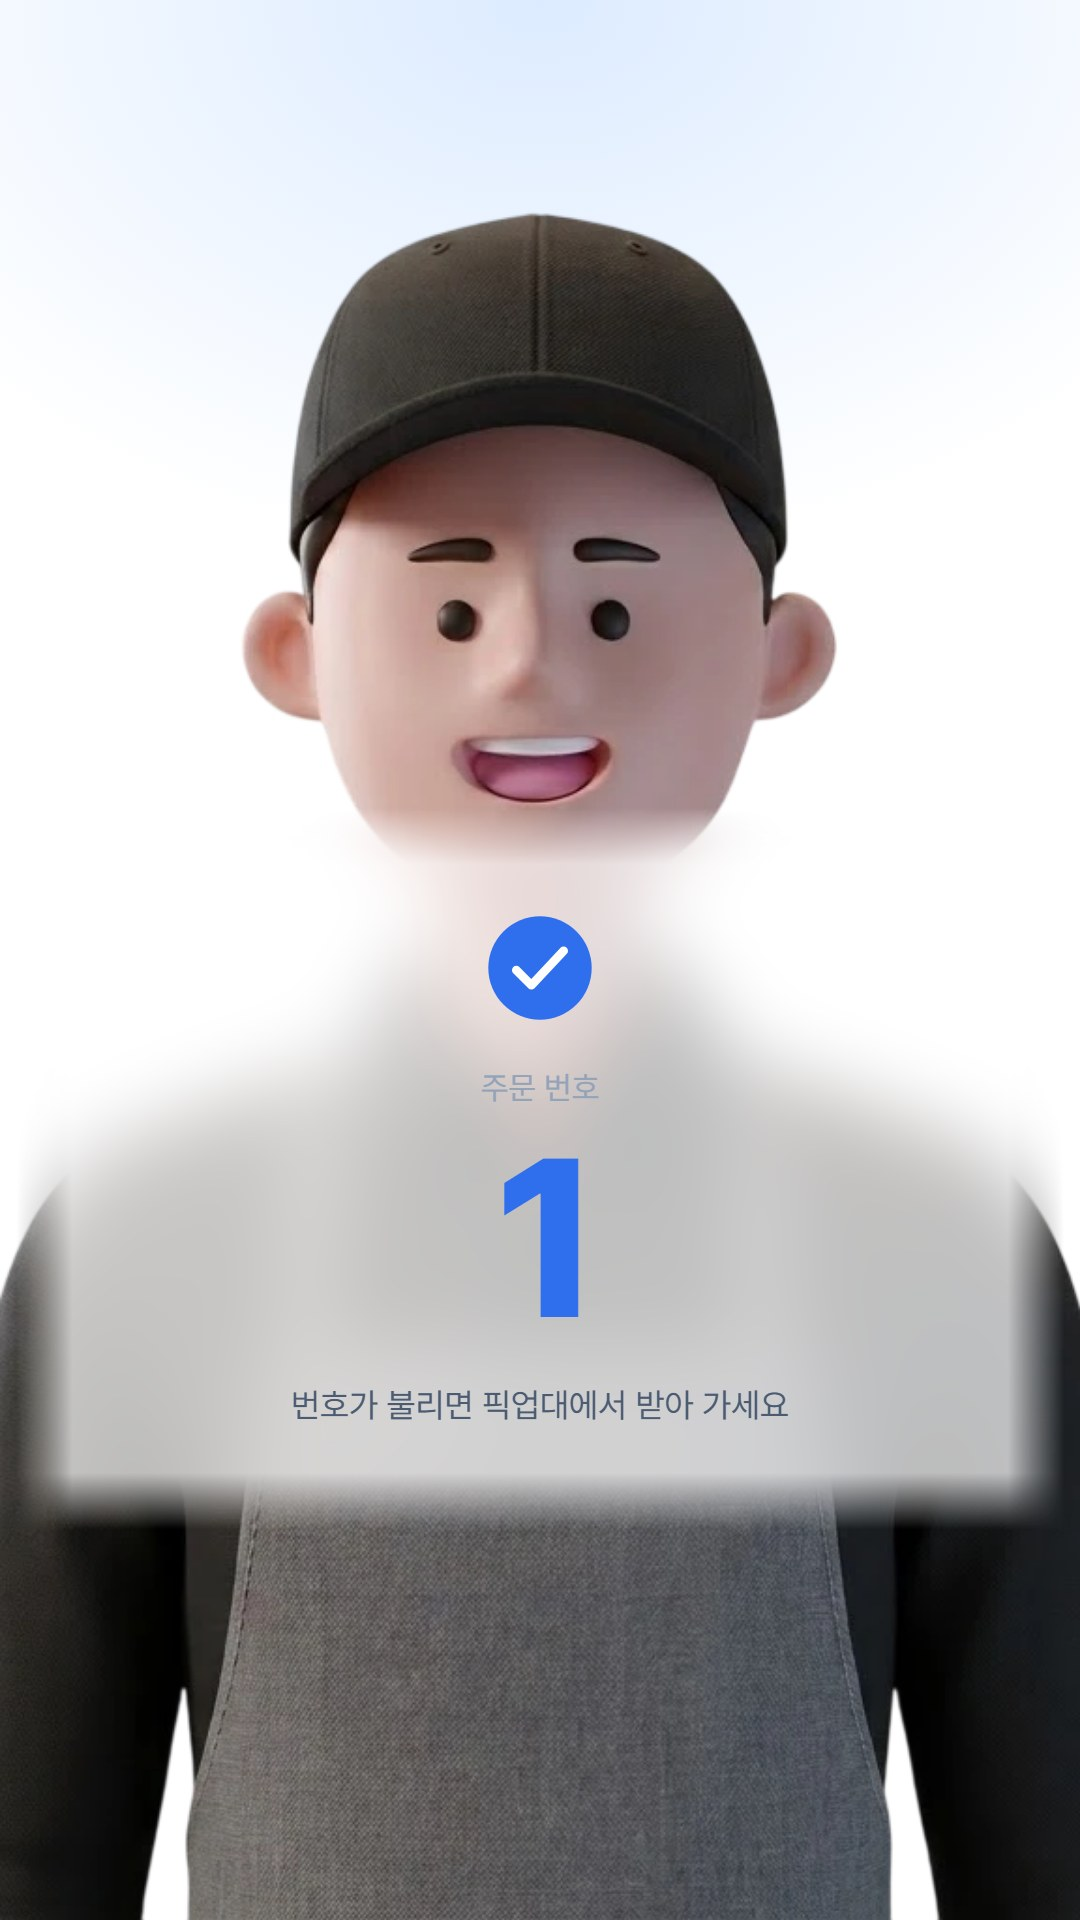
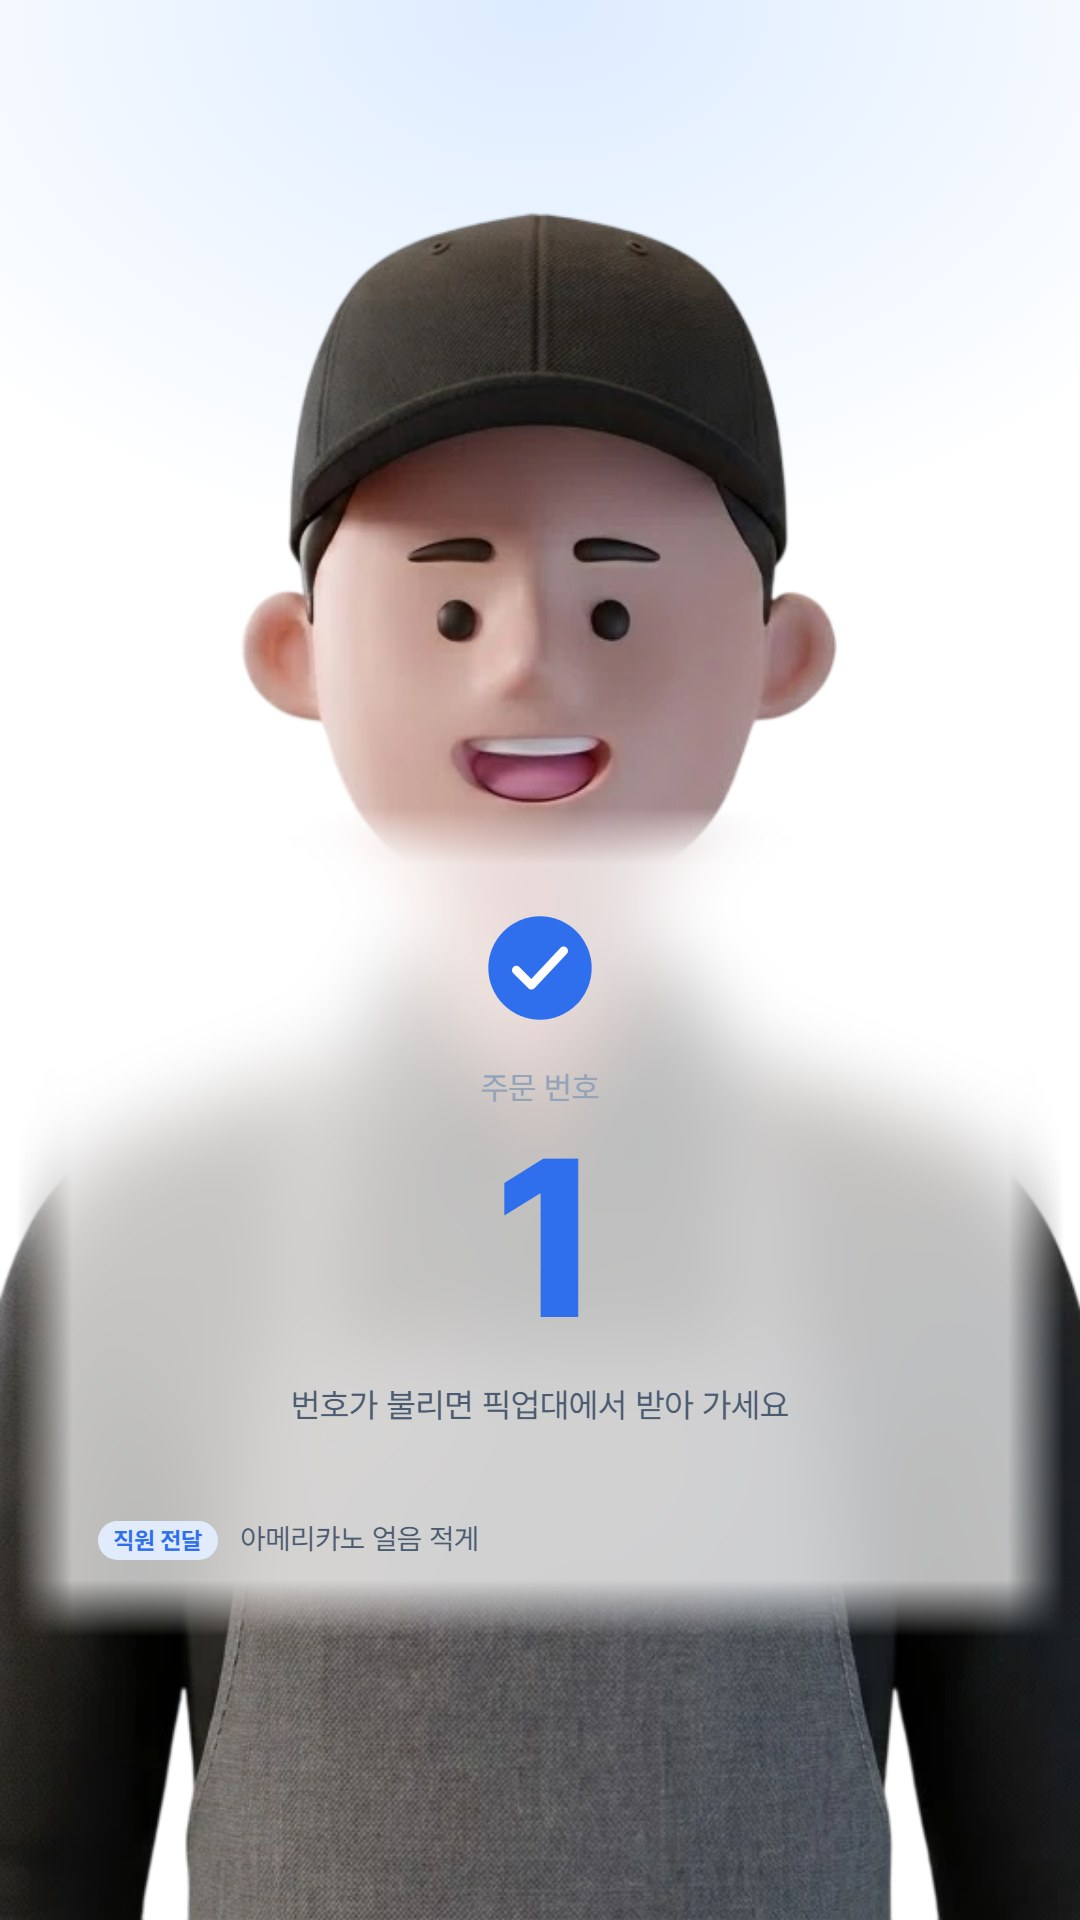
Document the ordering steps, going back and staff notes

Changed region(s): [[0.0, 0.75, 0.9778, 0.875]]

diff --git a/docs/architecture.md b/docs/architecture.md
@@ -108,12 +108,23 @@ changes the state (and increases `revision`) or raises `KioskError` with a messa
   until the card is "inserted".
 - The **review** is a screen, not a phase: `review()` stores the order's `version`, and
   `start_payment()` is refused if the order changed since (`review_is_current`).
-- An item is added as soon as every **required** option is known (`choose_item` /
-  `set_options`); otherwise it waits and the item screen shows the missing choices. Several
-  items can wait side by side ("청포도 에이드 하나랑 아메리카노 하나"); `set_options(item_id=...)`
-  says which one an answer is for, and the screen shows the one touched last. Optional groups keep
-  their default ("기본", "없음"). A temperature or size the item has no option for is accepted
-  only if it matches how the item is served (ICE for an iced-only item, Regular for one size).
+- A session starts with the **take-out question** on screen (`Screen.DINING`); `set_dining`
+  clears it. If dining is still unknown at payment, the question comes back.
+- An item is chosen **one question at a time**: each missing required option in the item's own
+  order, then its **extras** (shots, syrups, tumbler, ...) all at once, then `finish_item` adds it
+  (`PendingItem.asking` says which; the view's `group` shows it). Items without extras are added as
+  soon as the required options are known. Several items can wait side by side ("청포도 에이드
+  하나랑 아메리카노 하나"); `item_id` says which one an answer is for, and the screen shows the one
+  touched last. Optional groups keep their default ("기본", "없음"). A temperature or size the
+  item has no option for is accepted only if it matches how the item is served (ICE for an
+  iced-only item, Regular for one size).
+- **Going back**: the views the customer saw (menus, kinds of menu, items, info, the order) are
+  remembered; `go_back` shows the previous one. The option steps of one item count as one view,
+  and an item that was added since comes back as its order line. `edit_line(line, group?)` shows
+  an order line's options again (one group's choices, or all at a glance), and `change_line`
+  shows the option it changed, with the new choice marked.
+- **Notes for the staff** (`add_note`) are kept with the order; `ask_staff_question` makes the
+  assistant ask once, before the first review, whether there is anything for the staff.
 - `show_menu(exclude_allergens=...)` removes items whose own allergens include one of them (in
   code, from the data). An option that adds an allergen (whipped cream: milk) does not hide the
   item; the assistant must not suggest that option.
@@ -163,15 +174,19 @@ with a milk allergy).
 |---|---|
 | `show_menu(title?, category?, item_ids?, highlight_ids?, exclude_allergens?)` | Shows a chosen set of items (or a category, or everything) under a heading, with highlighted recommendations. `exclude_allergens` is filtered by code from the data, and the result lists what was removed. Display only. |
 | `show_categories()` | Shows the kinds of menu, when the customer wants to see other menus. |
-| `show_item(item_id)` | Shows one item's details (description, ingredients, allergens, options) without ordering. |
+| `show_item(item_id)` | Shows one item (picture, ingredients, allergens) without ordering; the assistant tells the description. |
 | `show_info(topic)` | Shows a cafe-info card (Wi-Fi, restroom, hours, ...; topics come from `cafe.yaml`). |
 | `show_order()` | Shows the whole order (display only). |
-| `choose_item(item_id, quantity?, options…)` | The item becomes the pending item (its image enlarges). Once every **required** option is known it is added to the order automatically; otherwise the result lists the missing groups and the screen shows their choices. Required options nobody said are left out. |
-| `set_options(item_id?, options…, quantity?)` | Fills in a waiting item (the last one unless `item_id` says which; same rules). Results list the other items still waiting. |
+| `choose_item(item_id, quantity?, options…)` | The item becomes the pending item. The result says what to ask next: **one** required option (`ask`), then the item's `extras`; the screen shows exactly that. Required options nobody said are left out. Items without extras are added once the required options are known. |
+| `set_options(item_id?, options…, quantity?)` | Fills in a waiting item, required options or extras (the last one unless `item_id` says which; same rules). Results list the other items still waiting. |
+| `finish_item(item_id?)` | The customer wants no (more) extras: adds the item. |
 | `cancel_item(item_id?)` | Drops a waiting item. |
-| `change_line(line, quantity?, options…)` | Changes an order line; quantity 0 removes it. |
+| `change_line(line, quantity?, options…)` | Changes an order line; quantity 0 removes it. The screen shows the changed option again. |
+| `edit_line(line, option?)` | Shows an order line's options again: one option's choices, or all at a glance. Display only. |
+| `go_back()` | Shows the previous screen ("이전 화면", "뒤로"). |
+| `note_for_staff(text)` | A request the kiosk cannot do itself ("아메리카노는 포장, 카페모카는 매장에서", "얼음 적게"): kept with the order and shown in the review and on the order number; the assistant says it will pass it on instead of refusing. |
 | `set_dining(dining: here \| to_go)` | Dine-in or take-out. |
-| `request_payment()` | **Blocked unless the customer asked to pay** (see above); also needs items, dining and no pending item. Shows the review and returns the read-back; code starts the terminal after it was said. |
+| `request_payment()` | **Blocked unless the customer asked to pay** (see above); also needs items, dining and no pending item. The first time it returns `ask_first`: "직원에게 따로 전달할 말씀 있으세요?" (the order is on screen meanwhile). Then it shows the review and returns the read-back; code starts the terminal after it was said. |
 | `cancel_payment()` | Back to ordering while the terminal waits for the card. |
 | `cancel_order()` | **Blocked unless** the customer just said yes to the cancel question. Hanging up clears the order without asking. |
 
@@ -236,10 +251,14 @@ to the next screen": choices appear and disappear in place.
     for long lists), with a small caption for a filter or a category. Rows that stay move to their
     new places (`flip`).
   - **Kinds of menu** (`show_categories`).
-  - **Item**: name, picture and price; while choosing, only the option being asked (the first
-    missing one), with earlier choices as small chips. Asked about the item: its ingredients and
-    facts (no description: the assistant tells it).
-  - **Review**, **card terminal**, **order number**, **cafe information**.
+  - **Take-out question** first: two rows, 매장 / 포장.
+  - **Item**: name, picture and price; while choosing, only the option being asked (one
+    required option at a time, then all extras as rows of pills), with earlier choices as small
+    chips. An order line shown again: one option's choices with the current one marked, or all
+    options at a glance. Asked about the item: its ingredients and facts (no description: the
+    assistant tells it).
+  - **Review** and **order number**, with the notes for the staff; **card terminal**;
+    **cafe information**.
 - **Background of the choices** (developer panel): *blur* (a blurred, see-through patch fading
   out at its edges), *gradient* (the panel colour rising from the bottom of the screen) or
   *boxes* (each row its own see-through box).

diff --git a/docs/decisions.md b/docs/decisions.md
@@ -13,7 +13,7 @@ earlier prototype ([jhj1012/kiosk-ai](https://github.com/jhj1012/kiosk-ai)) say 
 | Assistant | Built into the kiosk: it knows the whole menu and flow and acts through function calls. | Replaces the old design (an external assistant reading another app's screen through Windows UI Automation), which was slow and fragile. |
 | Display content | **The assistant decides what the screen shows**: display functions take any set of items and a heading (e.g. allergy-safe items), plus item details and cafe-info cards. | Requested by the team: the screen should follow the conversation. Allergen filtering is done by code from the data, not by the model. |
 | Menu data | Same items, prices, option groups and option prices as the old prototype, now in `data/menu.yaml` with Korean descriptions, ingredients and tags (recommended, caffeine, sweetness, allergens). Option groups are marked required (temperature, size) or optional. Unchecked facts carry `verified: false`. | YAML allows comments and is easier to edit by hand than JSON. Invented demo facts must be easy for the team to find and review. |
-| Required vs optional options | The assistant asks only required options (temperature, size); extras (shots, syrups, toppings, tumbler) only when the customer asks. | Carried over: customers found extra questions tiresome; required choices must come from the customer. |
+| Required vs optional options | Required options (temperature, size) must come from the customer, one at a time. Extras (shots, syrups, toppings, tumbler) are offered once per item with one short question, "추가하실 거 있으세요?", while the screen lists them (see "Ordering steps"). | Required choices must come from the customer. The earlier rule (extras only when asked) was changed by team feedback after milestone 8. |
 | Discounts and stamps | **Dropped** for the demo. | Stamps need a phone number, which the customer would have to say out loud in a café; coupons add a flow with little demo value. Possible later features. |
 | Payment | Simulated: "카드를 단말기에 꽂아 주세요" → "결제 중..." → done with an order number. | Demo, no real terminal. |
 | Language | Korean (customers); code, docs and model instructions in English. The README's guide for teammates is in Korean, its developer part in English. | Carried over. Teammates read the README first; most of them do not program. |
@@ -40,6 +40,9 @@ earlier prototype ([jhj1012/kiosk-ai](https://github.com/jhj1012/kiosk-ai)) say 
 | Display layout | **Portrait** (1080×1920; a centered portrait frame on landscape monitors), white with soft blue gradients, flat (no shadows), minimal: the start screen is only the assistant and one sentence. Sizes in `rem`, 1/120 of the height. | Team feedback on the first version (milestone 5): it should be vertical, less warm, whiter, with fewer things on screen. |
 | Display motion | **One continuous page** instead of screens: the assistant and the conversation stay at the top, the order at the bottom; content appears and disappears in place (cards `flip` to new places, a card's image grows into the item, an added item flies into the order bar). `prefers-reduced-motion` turns animations off. | Team feedback: moving between screens felt like page changes. |
 | Choices over the avatar | Everything is a **list** (menus, kinds of menu, options), shown over the avatar's chest, and only what the assistant is asking now: while choosing an item, one option group at a time, earlier choices as chips. No menu descriptions on screen (the assistant tells them). Three backgrounds to compare: blur, a gradient from the bottom, boxes. | Team feedback: lists are clearer over a character than cards, and one question at a time matches the conversation. |
+| Ordering steps | Here or to go is asked first (the screen shows both). Then each item one question at a time: required options in the item's order, then its extras as one list ("추가하실 거 있으세요?"); `finish_item` adds it when the customer wants nothing more. Code decides the order, so the screen always matches the question. | Team feedback (after milestone 8): one question at a time is easier to follow by voice and on screen; extras were never offered before. |
+| Going back | The views the customer saw are remembered; `go_back` ("이전 화면") shows the previous one, and an item added since comes back as its order line. `edit_line` shows a line's options again; `change_line` shows the changed option. | Team feedback: after an item was added there was no way to see its options again except removing and re-ordering it. |
+| Requests the kiosk cannot do | Passed on to the staff (`note_for_staff`): "네, 알겠습니다. 해당 사항은 직원에게 전달하겠습니다." instead of "불가능합니다". Before the read-back the assistant asks once "직원에게 따로 전달할 말씀 있으세요?" (enforced by `request_payment`). Notes appear in the review and with the order number. | Team feedback: refusing reasonable requests ("아메리카노는 포장, 카페모카는 매장에서") feels bad; a person at the counter would just pass them on. |
 | Subtitles | Off by default; a switch in the developer panel. | Team feedback: the avatar talks; text on top is noise. Useful for testing. |
 | Display settings | Background style, subtitles and every main colour are set in the developer panel and **saved by the backend** (`configs/display.local.json`, git-ignored), which sends them to every display. | Full-screen mode (`--kiosk`) uses its own Edge profile, and another PC or browser would start empty; settings saved in the browser would not reach them. |
 | Showing menus | When asked what there is, the assistant shows 3–5 recommended items without a heading and asks whether to show other menus; then the kinds of menu (`show_categories`), then the chosen kind. At most five items at a time, unless it is a whole category. | Team feedback: too many menus at once. Fewer items per step suit a voice conversation. |
